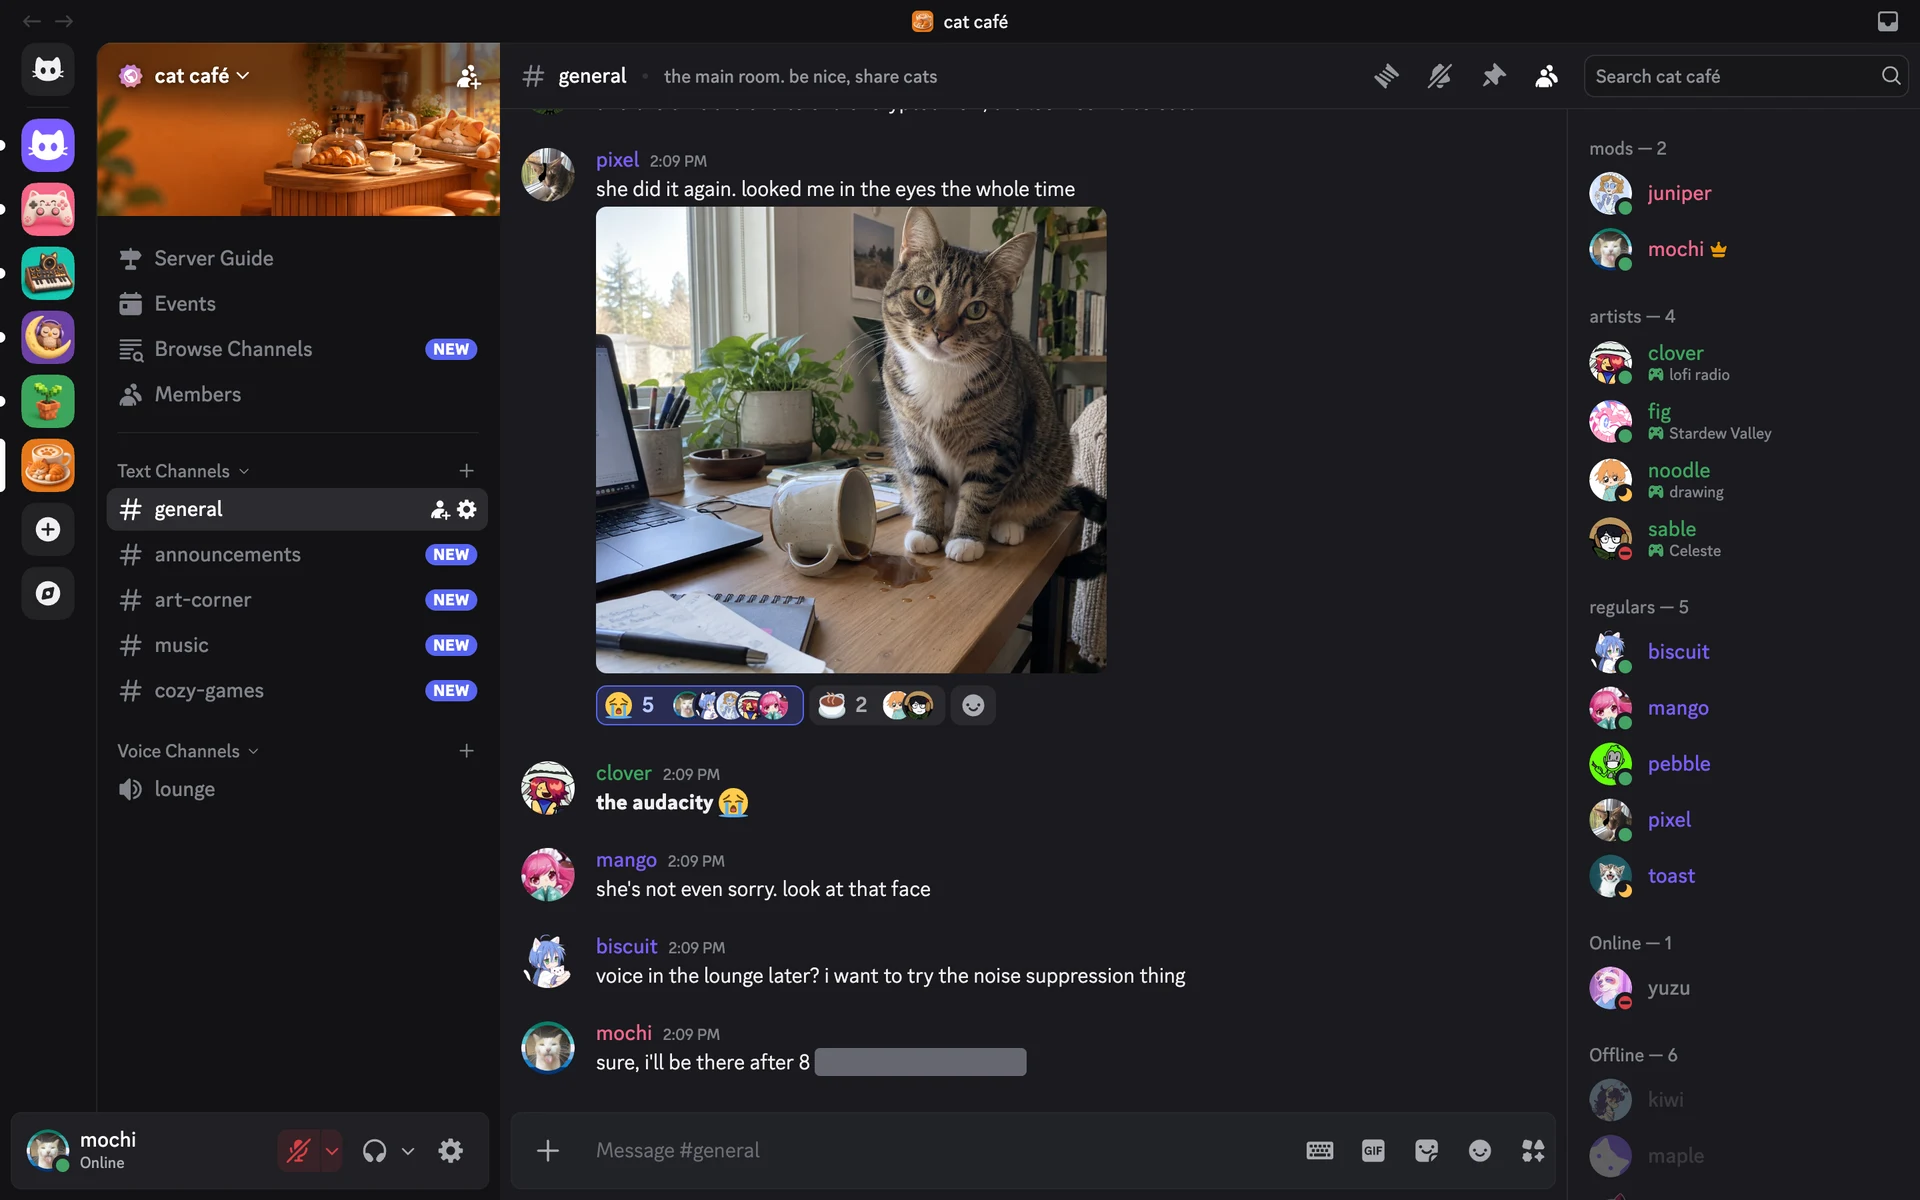
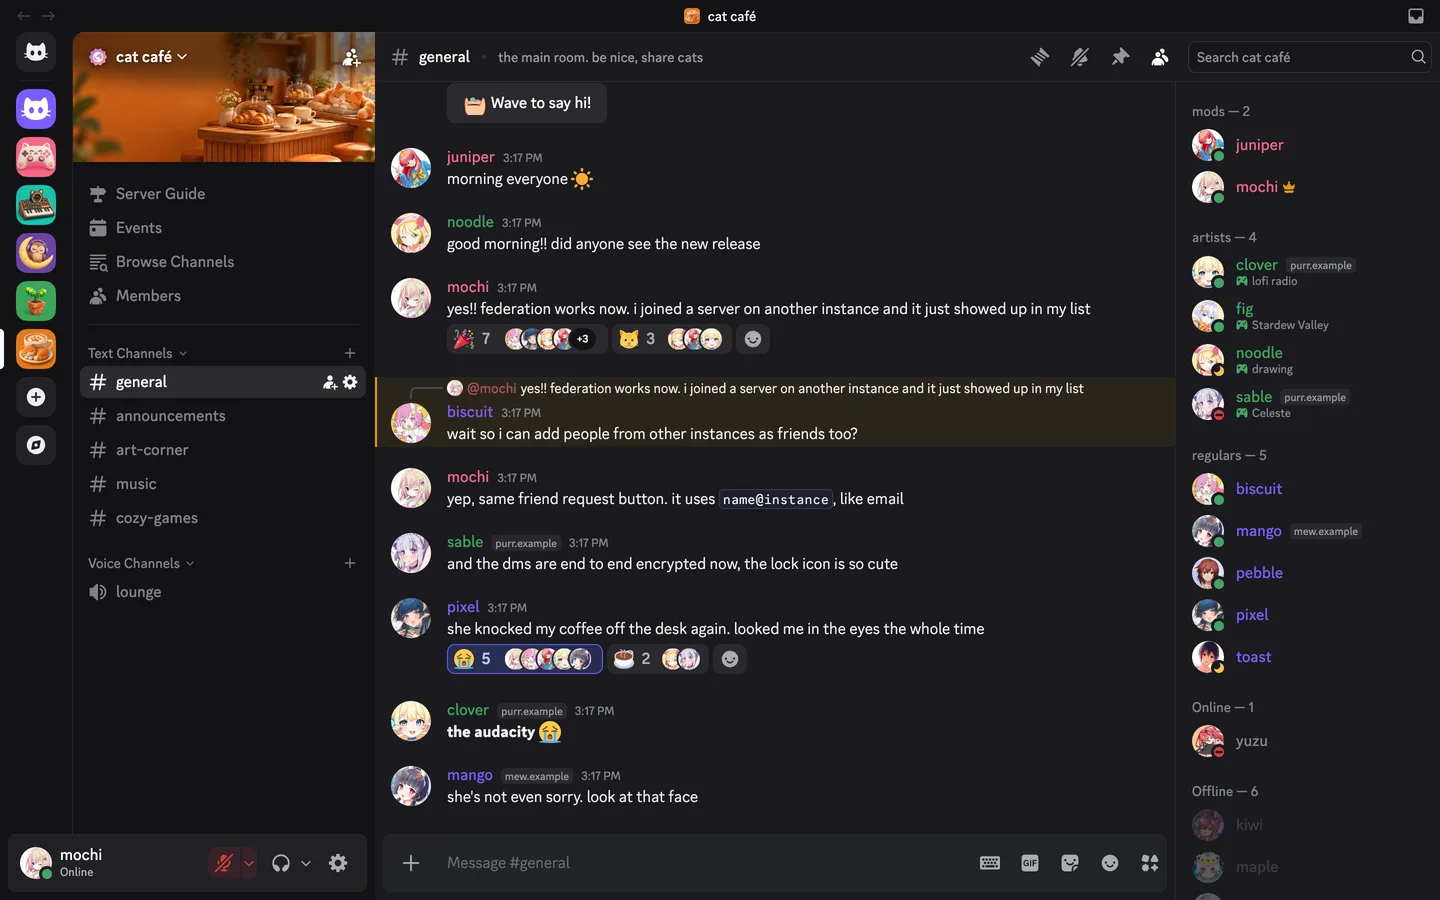
docs: refresh the readme hero with anime pfps and federation

diff --git a/scripts/readme/hero.py b/scripts/readme/hero.py
@@ -32,6 +32,7 @@ def material(name, color, roughness=0.4, coat=0.0):
 
 
 white = material("cat", "#ffffff", 0.3, 0.2)
+whisker_white = material("whiskers", "#e4def8", 0.35, 0.2)
 
 
 def make_icon(color, size, location, rotation):
@@ -61,12 +62,41 @@ def make_icon(color, size, location, rotation):
             curve.bevel_resolution = 8
             curve.materials.append(tile)
         else:
-            curve.extrude = 0.02 * size / factor
+            whiskers = part is min((o for o in parts if o is not rect), key=lambda o: o.dimensions.y)
+            curve.extrude = (0.012 if whiskers else 0.026) * size / factor
             curve.bevel_depth = 0.008 * size / factor
             curve.bevel_resolution = 4
             curve.offset = 0
-            part.location.z = 0.11 * size
-            curve.materials.append(white)
+            part.location.z = (0.092 if whiskers else 0.118) * size
+            curve.materials.append(whisker_white if whiskers else white)
+    face = next(o for o in parts if o is not rect and o.data.materials[0] is white)
+    whisker = next(o for o in parts if o is not rect and o is not face)
+    cutter = face.copy()
+    cutter.data = face.data.copy()
+    scene.collection.objects.link(cutter)
+    cutter.data.offset = 0.021 * size / factor
+    cutter.data.extrude = 0.3 * size / factor
+    cutter.data.bevel_depth = 0
+    bpy.context.view_layer.update()
+    depsgraph = bpy.context.evaluated_depsgraph_get()
+    whisker_mesh = bpy.data.meshes.new_from_object(whisker.evaluated_get(depsgraph))
+    cutter_mesh = bpy.data.meshes.new_from_object(cutter.evaluated_get(depsgraph))
+    cut_obj = bpy.data.objects.new("cutter", cutter_mesh)
+    scene.collection.objects.link(cut_obj)
+    cut_obj.parent = holder
+    cut_obj.location = cutter.location
+    cut_obj.scale = cutter.scale
+    cut_obj.hide_render = True
+    bpy.data.objects.remove(cutter)
+    new_whisker = bpy.data.objects.new("whiskers", whisker_mesh)
+    scene.collection.objects.link(new_whisker)
+    new_whisker.parent = holder
+    new_whisker.location = whisker.location
+    new_whisker.scale = whisker.scale
+    bpy.data.objects.remove(whisker)
+    boolean = new_whisker.modifiers.new("gap", "BOOLEAN")
+    boolean.operation = "DIFFERENCE"
+    boolean.object = cut_obj
     holder.location = location
     holder.rotation_euler = [math.radians(a) for a in rotation]
     return holder
@@ -97,55 +127,76 @@ def screen(image_path, location, rotation, height):
     tex = nodes.new("ShaderNodeTexImage")
     tex.image = image
     tex.interpolation = "Cubic"
-    mat.node_tree.links.new(tex.outputs["Color"], bsdf.inputs["Base Color"])
+    bsdf.inputs["Base Color"].default_value = (0, 0, 0, 1)
     mat.node_tree.links.new(tex.outputs["Color"], bsdf.inputs["Emission Color"])
-    bsdf.inputs["Emission Strength"].default_value = 0.85
-    bsdf.inputs["Roughness"].default_value = 0.12
-    bsdf.inputs["Specular IOR Level"].default_value = 0.35
+    bsdf.inputs["Emission Strength"].default_value = 1.0
+    bsdf.inputs["Roughness"].default_value = 0.22
+    bsdf.inputs["Specular IOR Level"].default_value = 0.06
     face.data.materials.append(mat)
     body.location = location
     body.rotation_euler = [math.radians(a) for a in rotation]
     return body
 
 
-screen(f"{root}/discovery.png", (2.55, 2.1, 0.55), (90, 0, -22), 2.7)
-screen(f"{root}/chat.png", (-2.5, 1.4, 0.05), (90, 0, 20), 2.7)
+screen(f"{root}/discovery.png", (3.35, 3.2, 0.3), (90, 0, -27), 4.9)
+screen(f"{root}/chat.png", (-2.95, 2.6, 0.05), (90, 0, 26), 4.9)
 
 make_icon("#7B5CFF", 1.75, (0.15, -2.1, -0.05), (90 - 8, 0, -14))
 for color, size, location, rotation in [
-    ("#F2668B", 0.55, (-3.1, -0.9, 1.45), (74, 12, 26)),
-    ("#3BA55D", 0.45, (3.15, -0.6, -1.25), (96, -10, -30)),
-    ("#FAA61A", 0.32, (0.3, -3.3, 1.75), (70, 18, -8)),
-    ("#2D9CDB", 0.32, (-1.65, -2.2, -1.2), (100, -14, 20)),
-    ("#1ABC9C", 0.3, (-3.6, -0.4, -1.55), (84, 6, 40)),
+    ("#3BA55D", 0.4, (3.05, -1.6, -1.12), (98, -10, -30)),
+    ("#FAA61A", 0.28, (0.22, -3.0, 1.66), (70, 18, -8)),
 ]:
     make_icon(color, size, location, rotation)
 
-bpy.ops.mesh.primitive_plane_add(size=60, location=(0, 7, 0), rotation=(math.radians(90), 0, 0))
-bpy.context.object.data.materials.append(material("backdrop", "#1b1630", 0.9))
+bpy.ops.mesh.primitive_plane_add(size=1, location=(0, 14, 0.5), rotation=(math.radians(90), 0, 0))
+backdrop = bpy.context.object
+backdrop.scale = (60, 34, 1)
+glow = bpy.data.materials.new("backdrop")
+glow.use_nodes = True
+glow_nodes = glow.node_tree.nodes
+glow_nodes.remove(glow_nodes["Principled BSDF"])
+coords = glow_nodes.new("ShaderNodeTexCoord")
+mapping = glow_nodes.new("ShaderNodeMapping")
+mapping.inputs["Scale"].default_value = (1.6, 2.6, 1)
+mapping.inputs["Location"].default_value = (-0.8, -1.25, 0)
+gradient = glow_nodes.new("ShaderNodeTexGradient")
+gradient.gradient_type = "SPHERICAL"
+ramp = glow_nodes.new("ShaderNodeValToRGB")
+ramp.color_ramp.interpolation = "EASE"
+ramp.color_ramp.elements[0].color = hex_color("#040406")
+ramp.color_ramp.elements[1].color = hex_color("#2a2540")
+emission = glow_nodes.new("ShaderNodeEmission")
+glow_links = glow.node_tree.links
+glow_links.new(coords.outputs["Generated"], mapping.inputs["Vector"])
+glow_links.new(mapping.outputs["Vector"], gradient.inputs["Vector"])
+glow_links.new(gradient.outputs["Fac"], ramp.inputs["Fac"])
+glow_links.new(ramp.outputs["Color"], emission.inputs["Color"])
+glow_links.new(emission.outputs["Emission"], glow_nodes["Material Output"].inputs["Surface"])
+backdrop.data.materials.append(glow)
 
 world = bpy.data.worlds.new("world")
 scene.world = world
 world.use_nodes = True
-world.node_tree.nodes["Background"].inputs["Color"].default_value = hex_color("#0d0b16")
+world.node_tree.nodes["Background"].inputs["Color"].default_value = hex_color("#020203")
 world.node_tree.nodes["Background"].inputs["Strength"].default_value = 1.0
 
 
-def light(name, location, target, power, size, color):
+def light(name, location, target, power, size, color, spread=180):
     data = bpy.data.lights.new(name, "AREA")
     data.energy = power
     data.size = size
+    data.spread = math.radians(spread)
     data.color = hex_color(color)[:3]
     obj = bpy.data.objects.new(name, data)
     scene.collection.objects.link(obj)
+    obj.visible_camera = False
     obj.location = location
     obj.rotation_euler = (Vector(target) - Vector(location)).to_track_quat("-Z", "Y").to_euler()
 
 
-light("key", (-5, -7, 5), (0, 0, 0), 1400, 6, "#fff4ea")
-light("fill", (6, -6, -1), (0, 0, 0), 450, 6, "#c9c0ff")
+light("key", (-5, -7, 5), (0, 0, 0), 260, 6, "#fff4ea", 55)
+light("fill", (6, -6, -1), (0, 0, 0), 110, 6, "#c9c0ff", 60)
 light("rim", (0, 4, 5), (0, -1, 0), 900, 4, "#9d85ff")
-light("glow", (0, 3.5, -3), (0, 7, 0.5), 2200, 22, "#5b3fd6")
 
 camera = bpy.data.objects.new("camera", bpy.data.cameras.new("camera"))
 scene.collection.objects.link(camera)
@@ -155,7 +206,7 @@ camera.rotation_euler = (Vector((0, 0.4, 0.15)) - camera.location).to_track_quat
 camera.data.lens = 42
 camera.data.dof.use_dof = True
 camera.data.dof.focus_distance = (Vector((0.15, -2.1, -0.05)) - camera.location).length
-camera.data.dof.aperture_fstop = 4.5
+camera.data.dof.aperture_fstop = 2.6
 
 scene.render.engine = "CYCLES"
 prefs = bpy.context.preferences.addons["cycles"].preferences
@@ -169,8 +220,8 @@ scene.cycles.use_denoising = True
 scene.render.resolution_x = width
 scene.render.resolution_y = width // 2
 scene.render.film_transparent = False
-scene.view_settings.view_transform = "AgX"
-scene.view_settings.look = "AgX - Medium High Contrast"
+scene.view_settings.view_transform = "Standard"
+scene.view_settings.look = "None"
 scene.render.image_settings.file_format = "PNG"
 scene.render.filepath = out
 bpy.ops.render.render(write_still=True)

diff --git a/README.md b/README.md
@@ -1,5 +1,5 @@
 <p align="center">
-  <img src="docs/images/hero.webp" alt="the meowcord app icon in 3D, floating in front of two screens showing a chat channel and the server discovery page" />
+  <img src="docs/images/hero.webp" alt="the meowcord app icon in 3D, floating in front of two screens showing a chat channel with users from other instances and the server discovery page" />
 </p>
 <h1 align="center">Meowcord</h1>
 
